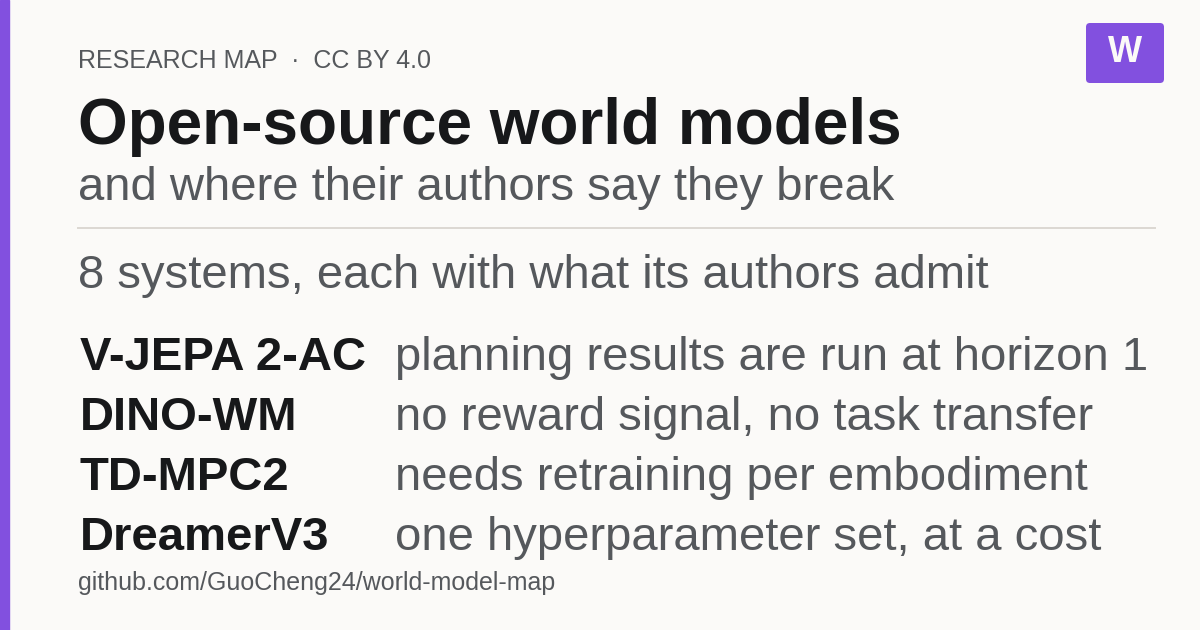
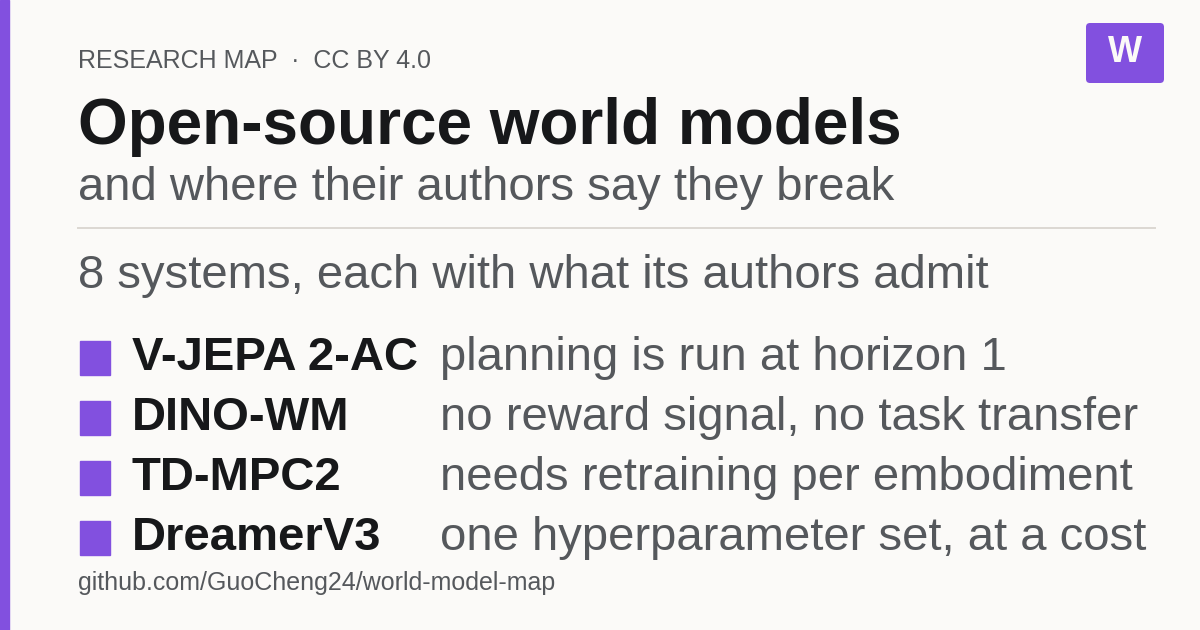
Give the card something to look at, not only something to read
Counting what each card actually draws turned up four that render no data
element at all: they were tables of text with a headline over them, which is
why they read as thinner than the rest even though every word on them is
true and legible.

This one now carries a mark drawn from its own numbers beside the words. The
addition is small on purpose - the message is still the text - but a reader
scanning a feed sees a shape first, and there was none.

Changed region(s): [[0.0617, 0.7238, 0.9558, 0.9048], [0.0617, 0.5127, 0.9558, 0.6032], [0.0617, 0.6333, 0.9558, 0.6937]]

diff --git a/.github/assets/make_social_preview.py b/.github/assets/make_social_preview.py
@@ -16,7 +16,7 @@ README = (ROOT / "README.md").read_text(encoding="utf-8")
 n_repos = len(re.findall(r"^\| \[", README, re.M))
 
 # each pair is a system and the limitation its own authors state, sourced in the section named
-STATED = [("V-JEPA 2-AC", "planning results are run at horizon 1"),
+STATED = [("V-JEPA 2-AC", "planning is run at horizon 1"),
           ("DINO-WM", "no reward signal, no task transfer"),
           ("TD-MPC2", "needs retraining per embodiment"),
           ("DreamerV3", "one hyperparameter set, at a cost")]
@@ -26,15 +26,17 @@ for name, _ in STATED:
 
 
 def chart(ax, accent):
+    import matplotlib.pyplot as plt
     ax.text(0.78, 3.42, f"{n_repos} systems, each with what its authors admit",
             fontsize=34, color="#55585c", family=SANS)
     y = 2.72
     for name, limit in STATED:
-        ax.text(0.80, y, name, fontsize=34, fontweight="bold", color="#17181a",
+        ax.add_patch(plt.Rectangle((0.80, y - 0.17), 0.30, 0.34, color=accent, zorder=3))
+        ax.text(1.32, y, name, fontsize=34, fontweight="bold", color="#17181a",
                 family=SANS, va="center")
-        ax.text(3.95, y, limit, fontsize=34, color="#55585c", family=SANS, va="center")
+        ax.text(4.40, y, limit, fontsize=34, color="#55585c", family=SANS, va="center")
         y -= 0.60
-    ax.plot([0.80, 3.72], [2.72 + 0.34, 2.72 + 0.34], color="#e2ded8", lw=0)
+
 
 
 out = card(
